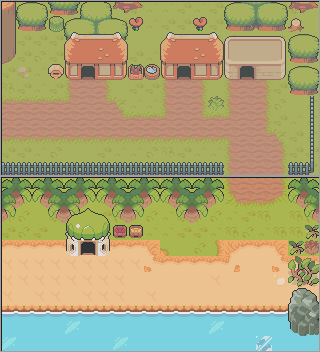
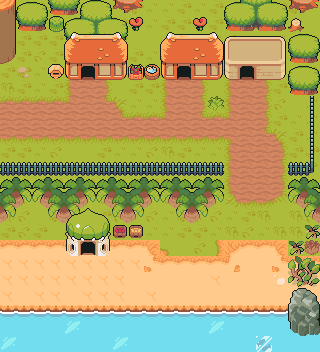
added water ripples in the beach

diff --git a/src/game_logic/map.js b/src/game_logic/map.js
@@ -3,14 +3,25 @@ import { createInteraction } from './interaction.js'
 import { charDialogue } from './utils.js';
 
 
-// load the sprite
+// load the map sprite
 const mapSprite = k.loadSprite('map', './src/assets/map.png');
 const mapData = await (await fetch("./src/mapdata/map.json")).json();
+
+
+// load the animation sprites 
+
+const waterRipple = k.loadSprite('water_ripple', './src/assets/water_ripple.png', {
+    sliceX: 4,
+    sliceY: 1,
+    anims: { 
+        'ripple': { from: 0, to: 3, loop: true, speed: 3 } 
+    }
+});
+
 
 // load the character sprites
 
 k.loadSprite('old_man_face', './src/assets/old_man_face.png');
-
 k.loadSprite('old_man_idle', './src/assets/old_man_idle.png', {
     sliceX: 4,
     sliceY: 1,
@@ -79,6 +90,20 @@ export const createMap = () => {
                 ])
             }
         }
+
+        if (layer.name === 'water_ripples') {
+            for ( const obj of layer.objects ) {
+                let waterRipple = map.add([
+                    k.pos(obj.x, obj.y),
+                    k.sprite('water_ripple'),
+                    k.z(999),
+                    'water_ripple'
+                ])
+
+                waterRipple.play('ripple');
+            }
+        }
+
 
     }
 

diff --git a/src/game_logic/ui.js b/src/game_logic/ui.js
@@ -21,7 +21,7 @@ export const createUI = (gameState) => {
         ])
         
         tutorialContainer.add([
-            k.pos(50, 0),
+            k.pos(180, 15),
             k.scale(4),
             k.sprite('tutorial')
         ])
